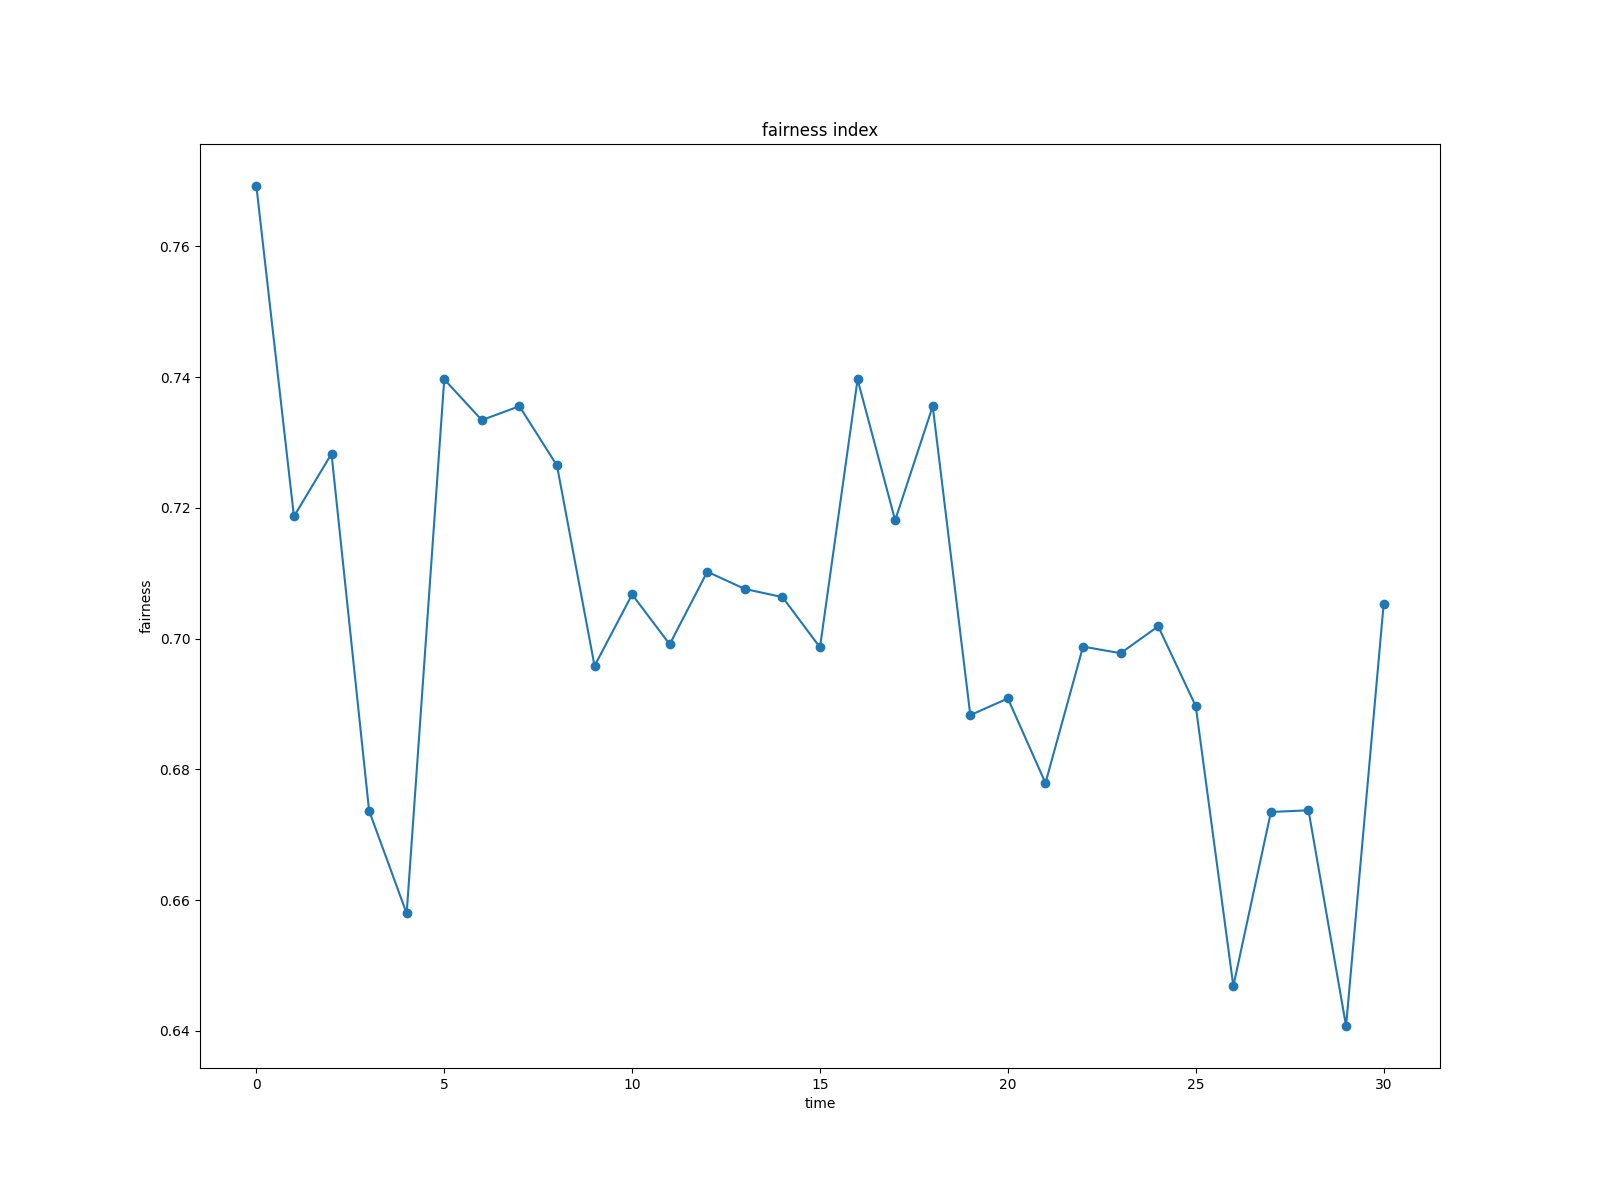
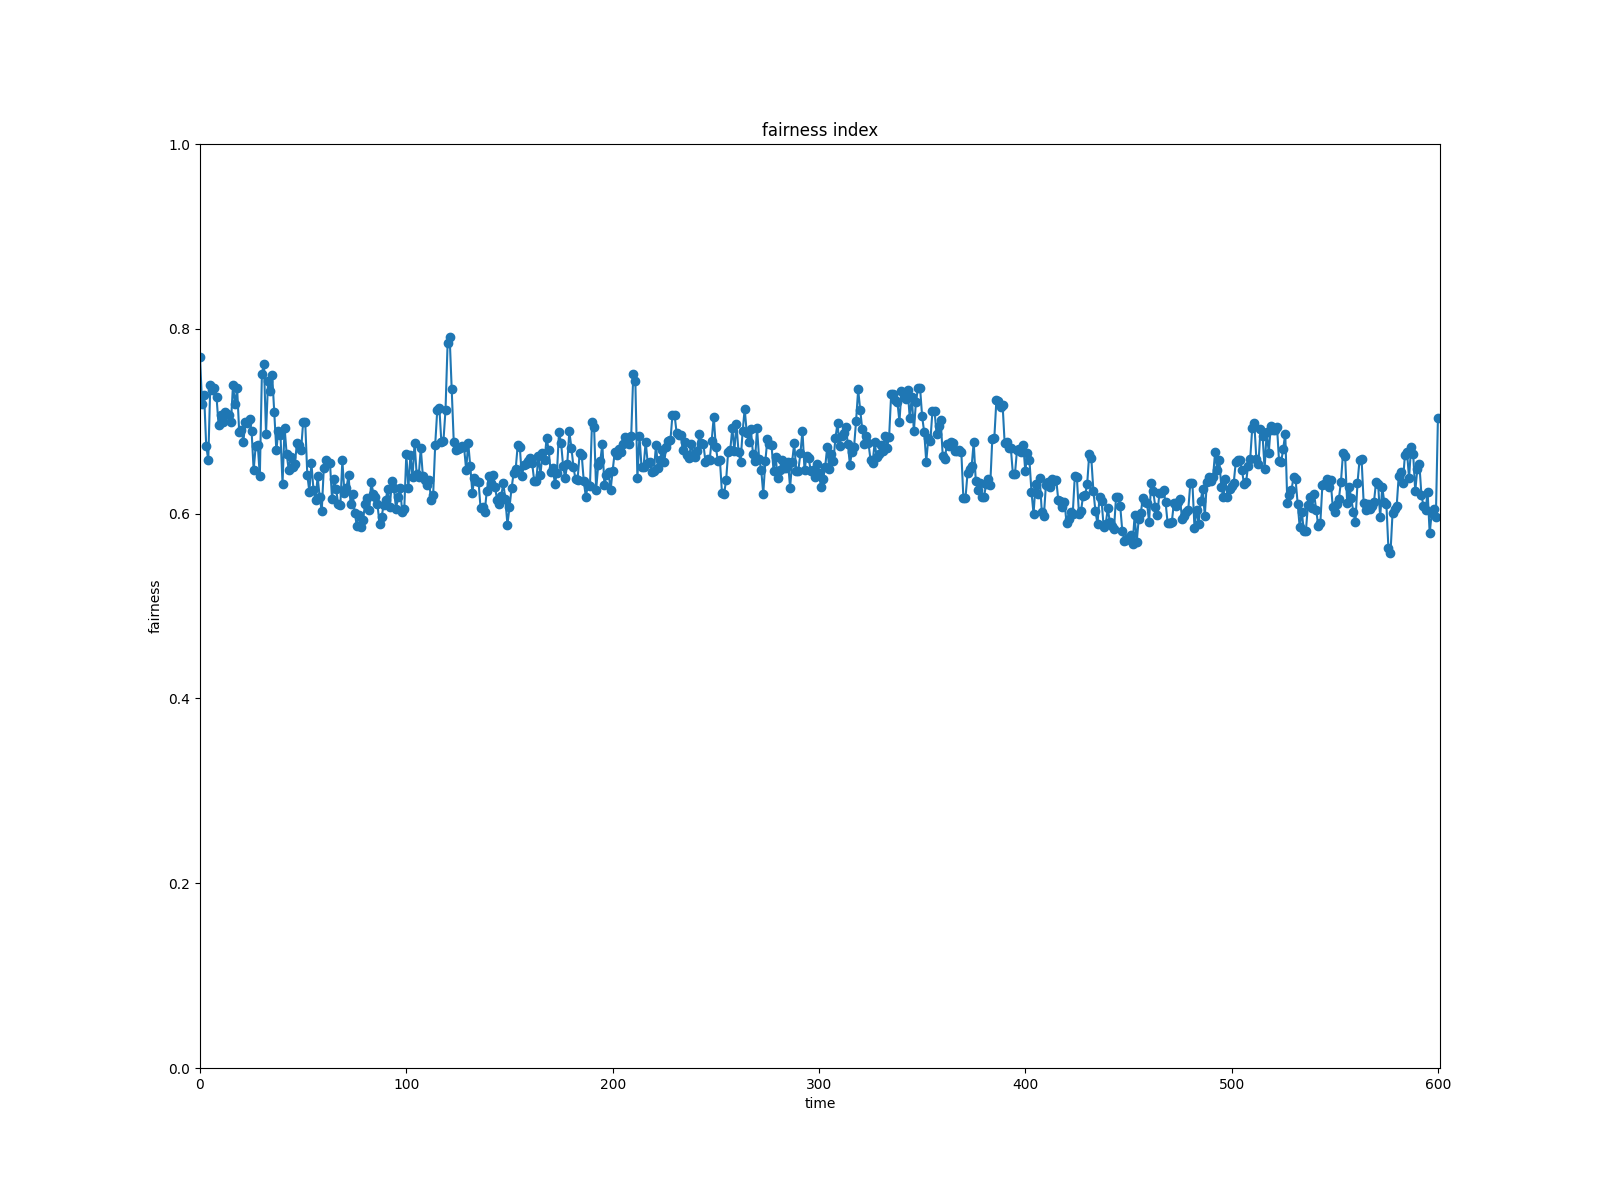
small change

diff --git a/main.py b/main.py
@@ -57,8 +57,6 @@ class Device_animate():
                 self.x = self.x + self.vx
                 self.y = self.y + self.vy
                 break
-            else:
-                continue
 
 class AP_animate():
     def __init__(self, ap):
@@ -203,15 +201,15 @@ while run :
             for user in ap.user:
                 user.selected = None
 
-    if t % 30 == 0:
-        if qos_requirment_throughput(device_list):
-            print('resource improvement')
-            for ap in ap_list:
-                power_adjustment(ap, ap_list)
-            channel_amplification(ap_list)
-        else:
-            print('fairness_version2')
-            fairness_adjust_version2(ap_list, device_list)
+    # if t % update_timer == 0:
+    #     # if qos_requirment_throughput(device_list):
+    #     #     print('resource improvement')
+    #     #     for ap in ap_list:
+    #     #         power_adjustment(ap, ap_list)
+    #     #     channel_amplification(ap_list)
+    #     # else:
+    #         # print('fairness_version2')
+    #     fairness_adjust_version2(ap_list, device_list)
 
     cci_cal(ap_list)  
     throughput_lower = 0

diff --git a/parameter.py b/parameter.py
@@ -28,8 +28,9 @@ frequency_channel_40 = np.arange(12,17) # 12~16
 frequency_channel_80 = np.arange(17,19) # 17~18
 frequency_channel_160 = np.arange(19,20) #19
 
-# all timer parameter
-operation_time = 30 # second
+# all timer (second)
+operation_time = 600 
+update_timer = 30
 d_state_timer_handover = 2
 d_state_timer_detached = 2
 d_state_timer_search = 5
@@ -39,7 +40,7 @@ a_state_timer_idle = 2
 # qos reqirement
 total_throughput_qos = 7000
 device_throughput_qos = 20
-device_throughput_ratio_reqirment = 0.5
+device_throughput_ratio_reqirment = 0.45
 
 # channel overlap dictionary
 ch_dic = {}

diff --git a/data_visualization.py b/data_visualization.py
@@ -75,9 +75,9 @@ def graph_fairness(t, fairness):
     plt.xlabel('time')
     plt.ylabel('fairness')
     plt.plot(t, fairness, '-o')
-    # plt.xlim(0, operation_time)
-    # plt.ylim(0, 1)
-    plt.savefig('fig/fairness with optimize')
+    plt.xlim(0, operation_time+1)
+    plt.ylim(0, 1)
+    plt.savefig('fig/fairness without optimize')
     # plt.show()
 
 def graph_throughput(t, total_throughput_device):
